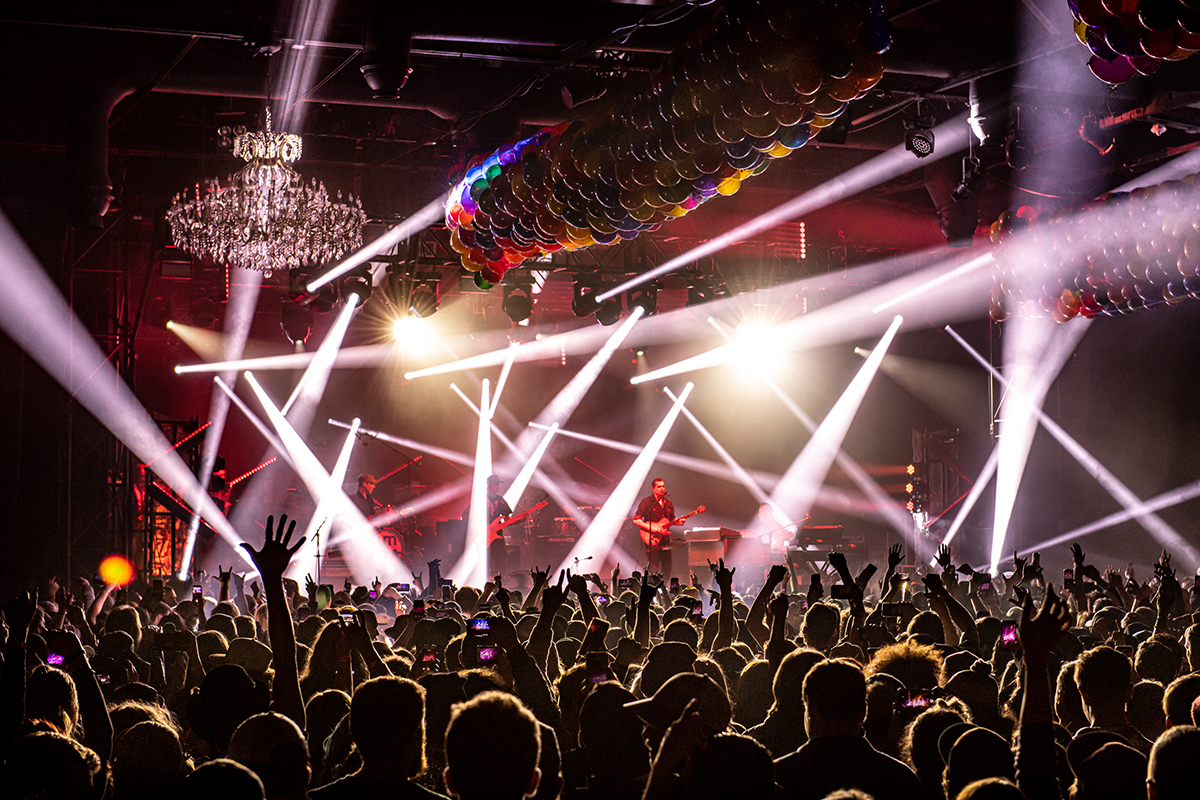
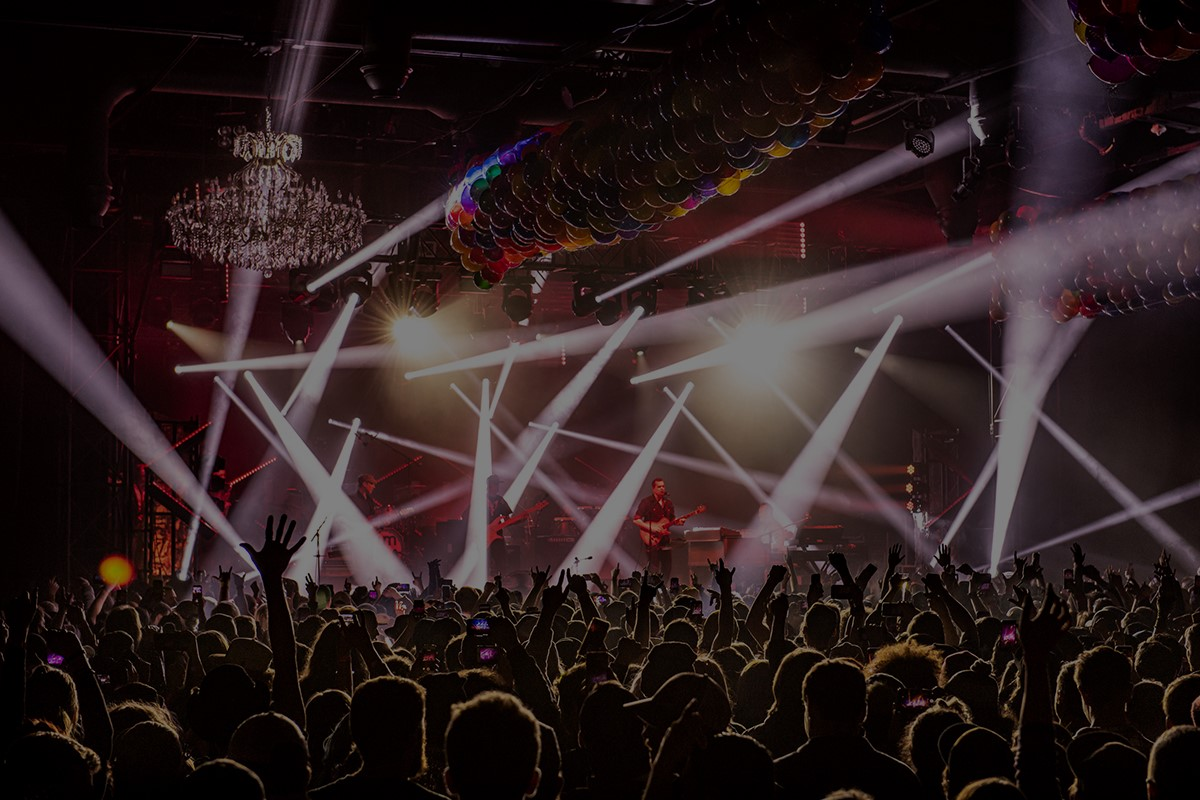
to redirecting

diff --git a/ui/ticketOfficer/ticketofficer.html b/ui/ticketOfficer/ticketofficer.html
@@ -39,10 +39,10 @@
             </button>
             <div class="collapse navbar-collapse" id="navbarSupportedContent">
                 <div class="navbar-nav ms-auto p-4 p-lg-0"> <!-- change me to ms to position right-->
-                    <a href="/event-management-master/ui/ticketOfficer/ticketOfficer.html" class="nav-item nav-link active">Home</a>
-                    <a href="/event-management-master/ui/ticketOfficer/ticketValidity.html" class="nav-item nav-link">Ticket Validity</a>  
-                    <a href="/event-management-master/ui/ticketOfficer/processTicketSales.html" class="nav-item nav-link">Ticket Sales</a>
-                    <a href="/event-management-master/ui/ticketOfficer/issueTickets.html" class="nav-item nav-link">Issue Tickets</a>
+                    <a href="ticketOfficer.html" class="nav-item nav-link active">Home</a>
+                    <a href="ticketValidity.html" class="nav-item nav-link">Ticket Validity</a>  
+                    <a href="processTicketSales.html" class="nav-item nav-link">Ticket Sales</a>
+                    <a href="issueTickets.html" class="nav-item nav-link">Issue Tickets</a>
                     <a class="btn mx-2" @click="logout()">Logout</a>
                 </div>
             </div>
@@ -50,7 +50,7 @@
     </nav>
 
     <!-- Page Header -->
-    <div class="container-fluid page-header mb-5 wow fadeIn" data-wow-delay="0.1s" style="visibility: visible; animation-delay: 0.1s; animation-name: fadeIn;">
+    <div class="container-fluid to-header page-header mb-5 wow fadeIn" data-wow-delay="0.1s" style="visibility: visible; animation-delay: 0.1s; animation-name: fadeIn;">
         <div class="container">
             <h1 class="display-3 mb-3 text-white fw-bold text-center slideInDown" data-wow-delay="0.5s"> Welcome Back, <br> {{ firstName }} {{ lastName }} </h1>
         </div>

diff --git a/ui/ticketOfficer/issueTickets.html b/ui/ticketOfficer/issueTickets.html
@@ -39,10 +39,10 @@
             </button>
             <div class="collapse navbar-collapse" id="navbarSupportedContent">
                 <div class="navbar-nav ms-auto p-4 p-lg-0"> <!-- change me to ms to position right-->
-                    <a href="/event-management-master/ui/ticketOfficer/ticketOfficer.html" class="nav-item nav-link active">Home</a>
-                    <a href="/event-management-master/ui/ticketOfficer/ticketValidity.html" class="nav-item nav-link">Ticket Validity</a>  
-                    <a href="/event-management-master/ui/ticketOfficer/processTicketSales.html" class="nav-item nav-link">Ticket Sales</a>
-                    <a href="/event-management-master/ui/ticketOfficer/issueTickets.html" class="nav-item nav-link">Issue Tickets</a>
+                    <a href="ticketOfficer.html" class="nav-item nav-link">Home</a>
+                    <a href="ticketValidity.html" class="nav-item nav-link">Ticket Validity</a>  
+                    <a href="processTicketSales.html" class="nav-item nav-link">Ticket Sales</a>
+                    <a href="issueTickets.html" class="nav-item nav-link active">Issue Tickets</a>
                     <a class="btn mx-2" @click="logout()">Logout</a>
                 </div>
             </div>
@@ -50,7 +50,7 @@
     </nav>
 
     <!-- Page Header -->
-    <div class="container-fluid page-header event-header mb-5 wow fadeIn" data-wow-delay="0.1s" style="visibility: visible; animation-delay: 0.1s; animation-name: fadeIn;">
+    <div class="container-fluid ticket-header page-header mb-5 wow fadeIn" data-wow-delay="0.1s" style="visibility: visible; animation-delay: 0.1s; animation-name: fadeIn;">
         <div class="container">
             <h1 class="display-3 mb-3 text-white fw-bold text-center slideInDown" data-wow-delay="0.5s"> Issue On-Site Ticket </h1>
         </div>

diff --git a/ui/ticketOfficer/processTicketSales.html b/ui/ticketOfficer/processTicketSales.html
@@ -39,17 +39,17 @@
             </button>
             <div class="collapse navbar-collapse" id="navbarSupportedContent">
                 <div class="navbar-nav ms-auto p-4 p-lg-0"> <!-- change me to ms to position right-->
-                    <a href="/event-management-master/ui/ticketOfficer/ticketOfficer.html" class="nav-item nav-link active">Home</a>
-                    <a href="/event-management-master/ui/ticketOfficer/ticketValidity.html" class="nav-item nav-link">Ticket Validity</a>  
-                    <a href="/event-management-master/ui/ticketOfficer/processTicketSales.html" class="nav-item nav-link">Ticket Sales</a>
-                    <a href="/event-management-master/ui/ticketOfficer/issueTickets.html" class="nav-item nav-link">Issue Tickets</a>
+                    <a href="ticketOfficer.html" class="nav-item nav-link">Home</a>
+                    <a href="ticketValidity.html" class="nav-item nav-link">Ticket Validity</a>  
+                    <a href="processTicketSales.html" class="nav-item nav-link active">Ticket Sales</a>
+                    <a href="issueTickets.html" class="nav-item nav-link">Issue Tickets</a>
                     <a class="btn mx-2" @click="logout()">Logout</a>
                 </div>
             </div>
         </div>
     </nav>
 
-    <div class="container-fluid page-header event-header mb-5 wow fadeIn" data-wow-delay="0.1s" style="visibility: visible; animation-delay: 0.1s; animation-name: fadeIn;">
+    <div class="container-fluid page-header ticket-header mb-5 wow fadeIn" data-wow-delay="0.1s" style="visibility: visible; animation-delay: 0.1s; animation-name: fadeIn;">
         <div class="container">
             <h1 class="display-3 mb-3 text-white fw-bold text-center slideInDown" data-wow-delay="0.5s"> Process On-Site Ticket Sales </h1>
         </div>

diff --git a/ui/ticketOfficer/ticketValidity.html b/ui/ticketOfficer/ticketValidity.html
@@ -39,17 +39,17 @@
             </button>
             <div class="collapse navbar-collapse" id="navbarSupportedContent">
                 <div class="navbar-nav ms-auto p-4 p-lg-0"> <!-- change me to ms to position right-->
-                    <a href="/event-management-master/ui/ticketOfficer/ticketOfficer.html" class="nav-item nav-link active">Home</a>
-                    <a href="/event-management-master/ui/ticketOfficer/ticketValidity.html" class="nav-item nav-link">Ticket Validity</a>  
-                    <a href="/event-management-master/ui/ticketOfficer/processTicketSales.html" class="nav-item nav-link">Ticket Sales</a>
-                    <a href="/event-management-master/ui/ticketOfficer/issueTickets.html" class="nav-item nav-link">Issue Tickets</a>
+                    <a href="ticketOfficer.html" class="nav-item nav-link">Home</a>
+                    <a href="ticketValidity.html" class="nav-item nav-link active">Ticket Validity</a>  
+                    <a href="processTicketSales.html" class="nav-item nav-link">Ticket Sales</a>
+                    <a href="issueTickets.html" class="nav-item nav-link">Issue Tickets</a>
                     <a class="btn mx-2" @click="logout()">Logout</a>
                 </div>
             </div>
         </div>
     </nav>
 
-    <div class="container-fluid page-header event-header mb-5 wow fadeIn" data-wow-delay="0.1s" style="visibility: visible; animation-delay: 0.1s; animation-name: fadeIn;">
+    <div class="container-fluid page-header ticket-header mb-5 wow fadeIn" data-wow-delay="0.1s" style="visibility: visible; animation-delay: 0.1s; animation-name: fadeIn;">
       <div class="container">
           <h1 class="display-3 mb-3 text-white fw-bold text-center slideInDown" data-wow-delay="0.5s"> Ticket Validation </h1>
       </div>

diff --git a/ui/lib/stylesheet.css b/ui/lib/stylesheet.css
@@ -99,6 +99,18 @@
         background-position: center;
     }
 
+    &.to-header {
+        background: url(../img/thumbnail.jpeg) top right no-repeat;
+        background-size: cover;
+        background-position: center;
+    }
+
+    &.ticket-header {
+        background: url(../img/tickets.jpg) top right no-repeat;
+        background-size: cover;
+        background-position: center;
+    }
+
 }
 
 .title {
